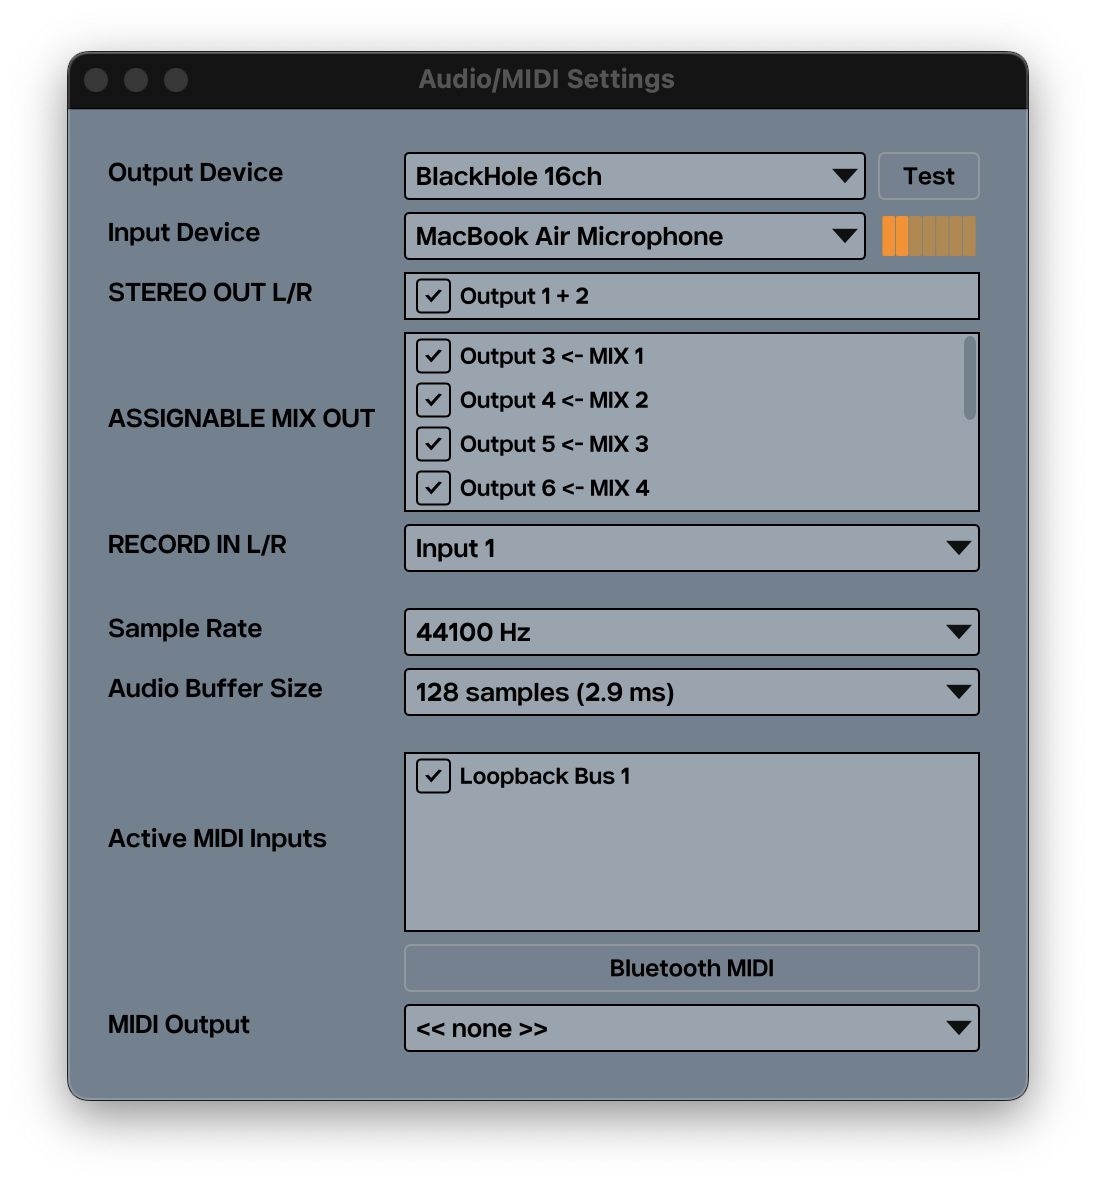
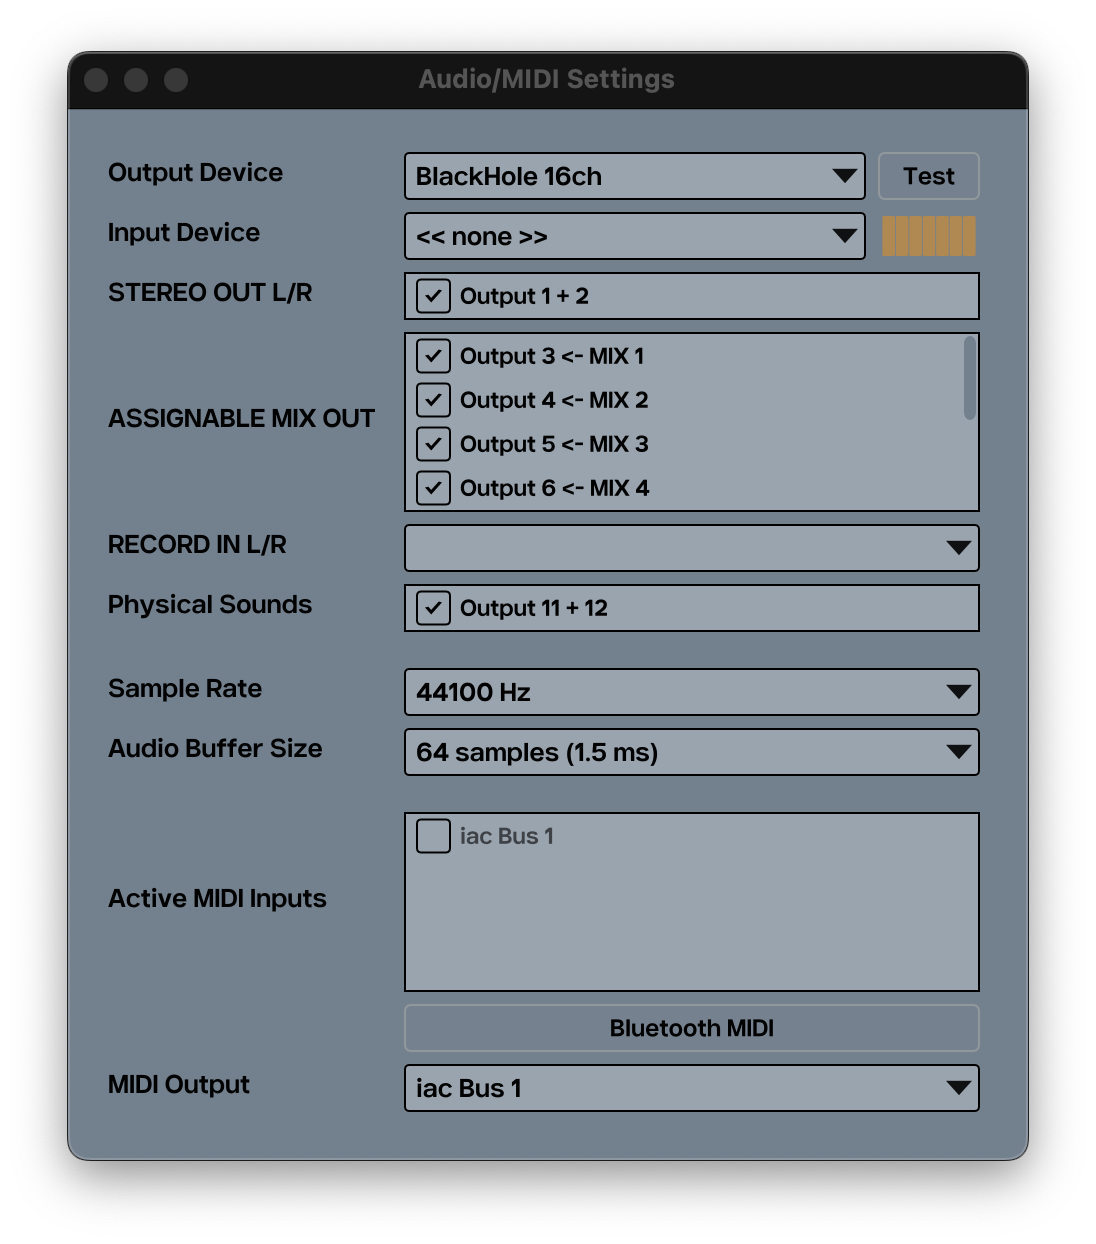
Add 'Physical sounds' docs

diff --git a/getting_started.rst b/getting_started.rst
@@ -41,7 +41,7 @@ Plugin (iPadOS)
 +++++++++++++++
 On iPadOS, VMPC2000XL comes as an AUv3 plugin. It can be used as an instrument, or as an effect plugin. The instrument gives you:
 
-* Audio out: 5x stereo out, 8x mono out
+* Audio out: 6x stereo out (including :code:`Physical sounds`), 8x mono out
 * MIDI in/out
 
 And the effect gives you:
@@ -67,15 +67,26 @@ When you start VMPC2000XL for the first time, it is highly recommended that you 
 
    The Audio/MIDI Settings window
 
+.. TODO: Replace this screenshot with one that includes PHYSICAL SOUNDS.
+
 Audio output/input
 ^^^^^^^^^^^^^^^^^^
 VMPC2000XL can function fine on audio output only, but this is also the absolute minimum you will need to configure correctly. Audio input and MIDI in/out can be configured to your liking.
 
-Note that for audio out to work well, an audio device needs to be selected, as well as which output channels of this device you want to activate. If your device supports more than 2 mono outputs, VMPC2000XL can make use of them. Up to 10 mono outputs can be used simultaneously, congruent with an MPC2000XL that has the M208P output expansion board.
+Note that for audio out to work well, an audio device needs to be selected, as well as which output channels of this device you want to
+activate. If your device supports more than 2 mono outputs, VMPC2000XL can make use of them. The first 10 mono outputs correspond to an
+MPC2000XL with the M208P output expansion board. When the device provides at least 12 outputs, the final pair appears in a separate
+:code:`PHYSICAL SOUNDS` section and can carry VMPC2000XL's dedicated stereo
+:ref:`physical interaction sounds <physical_interaction_sounds>` output.
 
 Up to 2 mono inputs can be activated at a time. A single mono input, such as the internal microphone of a MacBook, also works. Note, however, that such a mono input is treated by VMPC2000XL as a stereo input where both channels are the same.
 
-Note that VMPC2000XL currently does not support advanced channel routing. The first 2 output channels of the selected device are used for the virtual MPC2000XL's STEREO OUT left and right channels. Any remaining output channels are used for the mono ASSIGNABLE MIX OUT channels, of which there may be a maximum of 8. The first 2 input channels of the selected device are used for the RECORD IN left and right channels. If you need advanced routing, please look into products from companies like VB-Audio and Rogue Amoeba. On Linux you could look into JACK. Alternatively use VMPC2000XL as a plugin, so you can rely on your DAW's audio routing capabilities.
+Note that VMPC2000XL currently does not support advanced channel routing. Output channels 1 and 2 of the selected device are used for the
+virtual MPC2000XL's STEREO OUT left and right channels. Channels 3 through 10 are used for the eight mono ASSIGNABLE MIX OUT channels.
+When physical interaction sounds use their dedicated bus, channels 11 and 12 carry that stereo output. The first 2 input channels of the
+selected device are used for RECORD IN left and right. If you need advanced routing, please look into products from companies like
+VB-Audio and Rogue Amoeba. On Linux you could look into JACK. Alternatively use VMPC2000XL as a plugin, so you can rely on your DAW's
+audio routing capabilities.
 
 .. note::
 

diff --git a/vmpc_specific.rst b/vmpc_specific.rst
@@ -243,6 +243,46 @@ If you set :code:`Big time shift` to :code:`YES`, VMPC2000XL allows shift amount
 
 .. vmpc-lcd-screenshot:: images/vmpc_specific/big_time_shift.png
 
+.. _physical_interaction_sounds:
+
+Physical interaction sounds
++++++++++++++++++++++++++++
+VMPC2000XL can play recordings of the physical noises made by a real MPC2000XL. These include button presses and releases, pad strikes,
+DATA wheel turns, slider movement and the power-on and power-off sounds. The pad, DATA wheel and slider sounds respond to the speed or
+velocity of the interaction. The power-on sound plays when VMPC2000XL starts producing audio. In the standalone application, the
+power-off sound plays when VMPC2000XL is exited. Plugin instances do not play the power-off sound when they are removed or when the host
+exits, because plugin hosts do not provide audio processing time during teardown.
+
+Physical interaction sounds are disabled by default. Scroll down in the :code:`SETNGS` tab to access their settings:
+
+.. vmpc-lcd-screenshot:: images/vmpc_specific/physical_sounds_settings.png
+
+The settings are:
+
+* :code:`Physical sounds`: enables or disables all physical interaction sounds.
+* :code:`Physical mix mode`: :code:`STEREO OUT` mixes the sounds into :code:`STEREO OUT L/R`; :code:`PHYSICAL BUS` sends them exclusively
+  to the dedicated stereo output named :code:`Physical sounds`.
+* :code:`Physical level`: sets the overall physical interaction sound level from 0 to 100. Its default value is 15.
+
+The physical interaction sound level is independent of the :code:`MAIN VOLUME` knob. In :code:`STEREO OUT` mode, changing
+:code:`MAIN VOLUME` therefore does not change the level of the physical sounds.
+
+In a plugin host, the dedicated output appears as an additional stereo bus named :code:`Physical sounds`. VST3 and LV2 hosts may require
+you to enable and route this output explicitly. Audio Unit versions declare their additional outputs enabled by default, although the
+way they are presented still depends on the host.
+
+In the standalone application, :code:`Physical Sounds` appears as an additional output section in the Audio/MIDI Settings window. It
+uses audio output channels 11 and 12. The section is empty when the selected audio device provides fewer than 12 output channels. Leave
+the mix mode at :code:`STEREO OUT` when a separate output is not needed or available.
+
+Highlight any of the three physical sound settings and press :kbd:`OPEN WINDOW` to configure an additional level for each sound group:
+
+.. vmpc-lcd-screenshot:: images/vmpc_specific/physical_sound_levels.png
+
+The available groups are :code:`Buttons`, :code:`Pads`, :code:`Slider`, :code:`Data wheel` and :code:`Power`. Each group defaults to 100
+and is multiplied by :code:`Physical level`. For example, a physical level of 15 and a button level of 50 produce an effective button
+level of 7.5 percent. These settings are saved and restored between sessions.
+
 .. _configuring_the_keyboard:
 
 Configuring the keyboard in the KEYBRD tab
